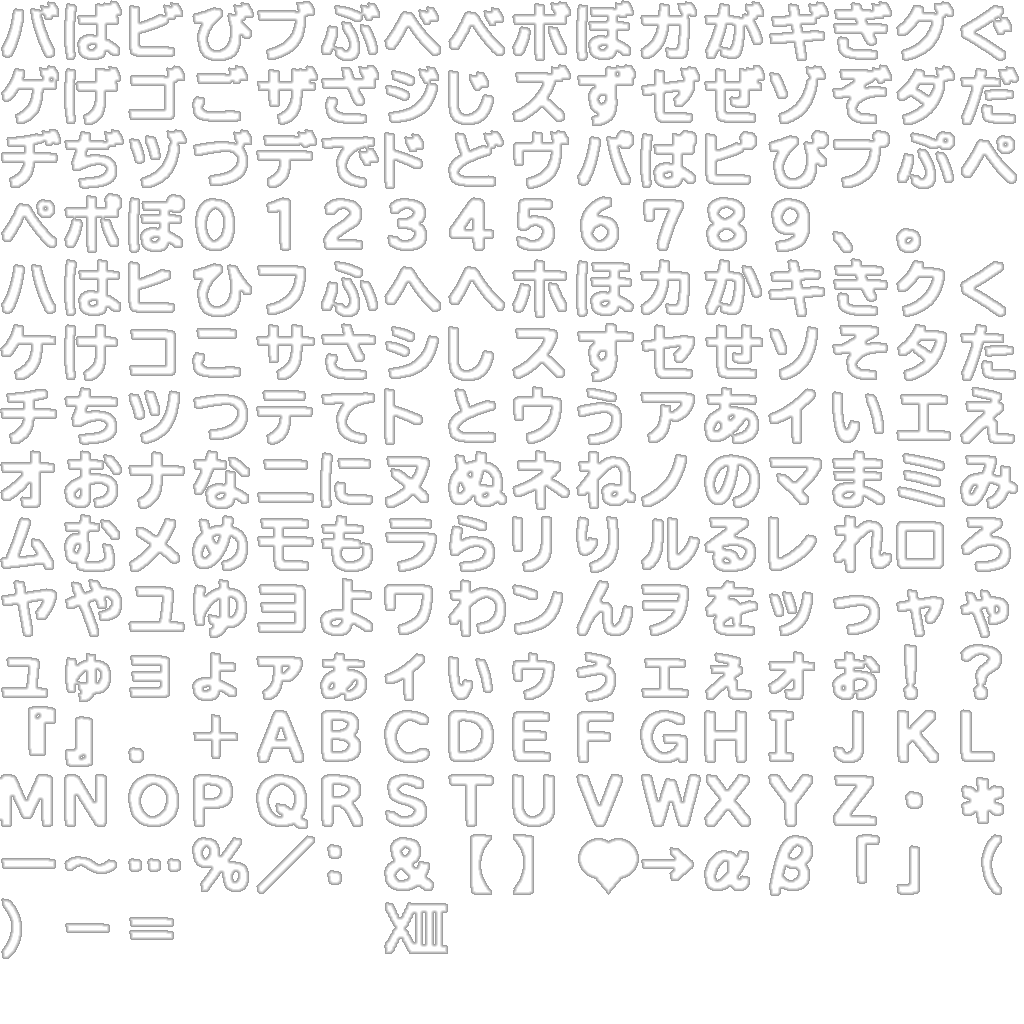
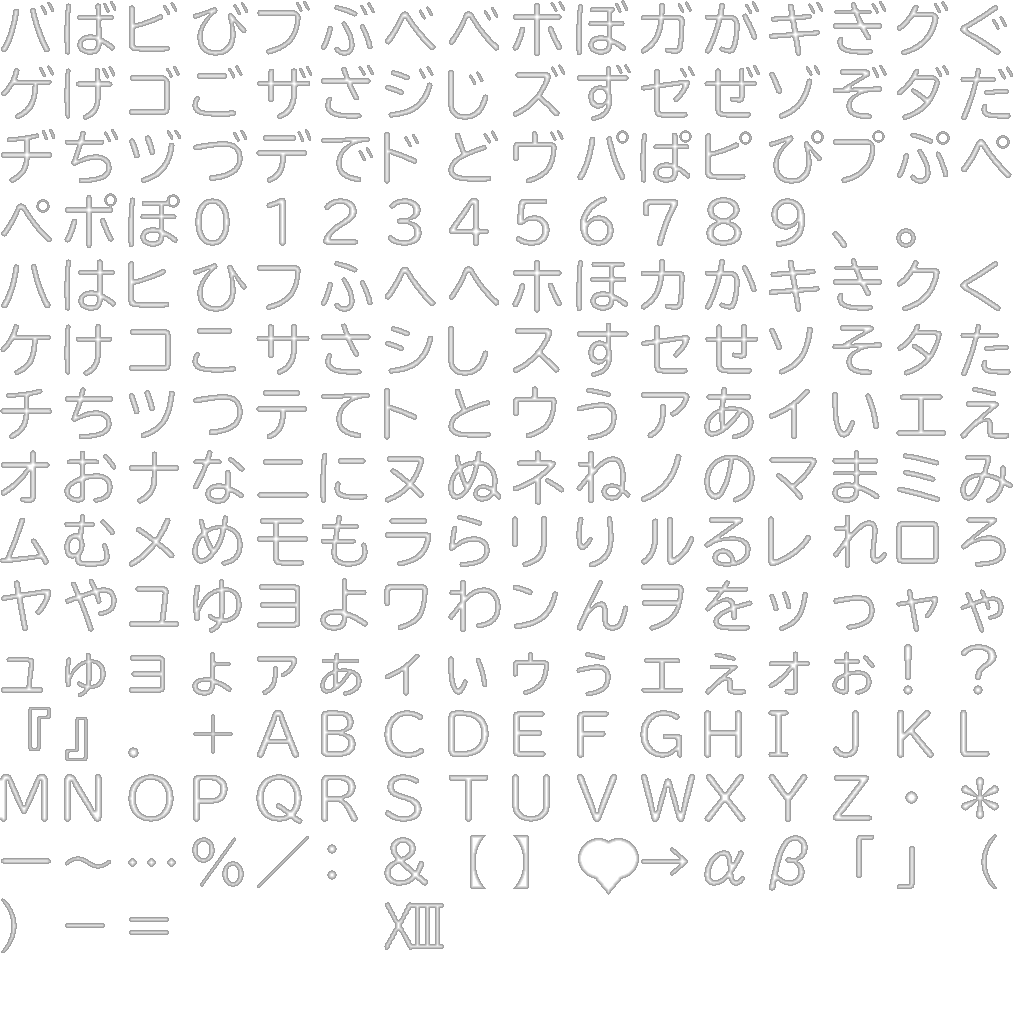
fix(sdf-font): properly remove drop shadows instead of converting to white
Improved clean_font_for_sdf.py to detect and remove drop shadows:
- Only keeps pixels with brightness > 200 (main white glyphs)
- Discards dark/gray pixels (drop shadows)
- Results in crisp, clean glyphs without bold appearance

Regenerated all 6 Japanese font SDFs from properly cleaned sources.
Text should now appear sharp and thin, matching original appearance.

Session: 1a021af6-6736-45cb-9669-eeb60f2a2030

🤖 Generated with [Claude Code](https://claude.com/claude-code)

diff --git a/sdf_font/clean_font_for_sdf.py b/sdf_font/clean_font_for_sdf.py
@@ -17,17 +17,22 @@ def clean_font_texture(input_path, output_path):
     
     # Separate channels
     r, g, b, a = img_array[:,:,0], img_array[:,:,1], img_array[:,:,2], img_array[:,:,3]
-    
-    # Create clean version: white where there's any opacity, transparent elsewhere
-    # Use a threshold to determine what counts as "content"
-    content_mask = a > 128  # Pixels with >50% opacity are considered content
-    
-    # Create new image: pure white with original alpha
+
+    # Remove drop shadows: only keep bright pixels (the main glyph, not the shadow)
+    # Drop shadows are typically dark/gray, main glyphs are bright/white
+    brightness = (r.astype(float) + g.astype(float) + b.astype(float)) / 3.0
+
+    # Keep only pixels that are:
+    # 1. Bright (brightness > 200) - the main white glyph
+    # 2. AND have opacity > 128 - actually visible
+    is_main_glyph = (brightness > 200) & (a > 128)
+
+    # Create new image: pure white glyphs only, transparent elsewhere
     clean = np.zeros_like(img_array)
-    clean[:,:,0] = np.where(content_mask, 255, 0)  # R
-    clean[:,:,1] = np.where(content_mask, 255, 0)  # G
-    clean[:,:,2] = np.where(content_mask, 255, 0)  # B
-    clean[:,:,3] = np.where(content_mask, 255, 0)  # A - full opacity where there's content
+    clean[:,:,0] = np.where(is_main_glyph, 255, 0)  # R
+    clean[:,:,1] = np.where(is_main_glyph, 255, 0)  # G
+    clean[:,:,2] = np.where(is_main_glyph, 255, 0)  # B
+    clean[:,:,3] = np.where(is_main_glyph, 255, 0)  # A - full opacity for main glyph only
     
     # Save
     clean_img = Image.fromarray(clean.astype(np.uint8), mode='RGBA')
